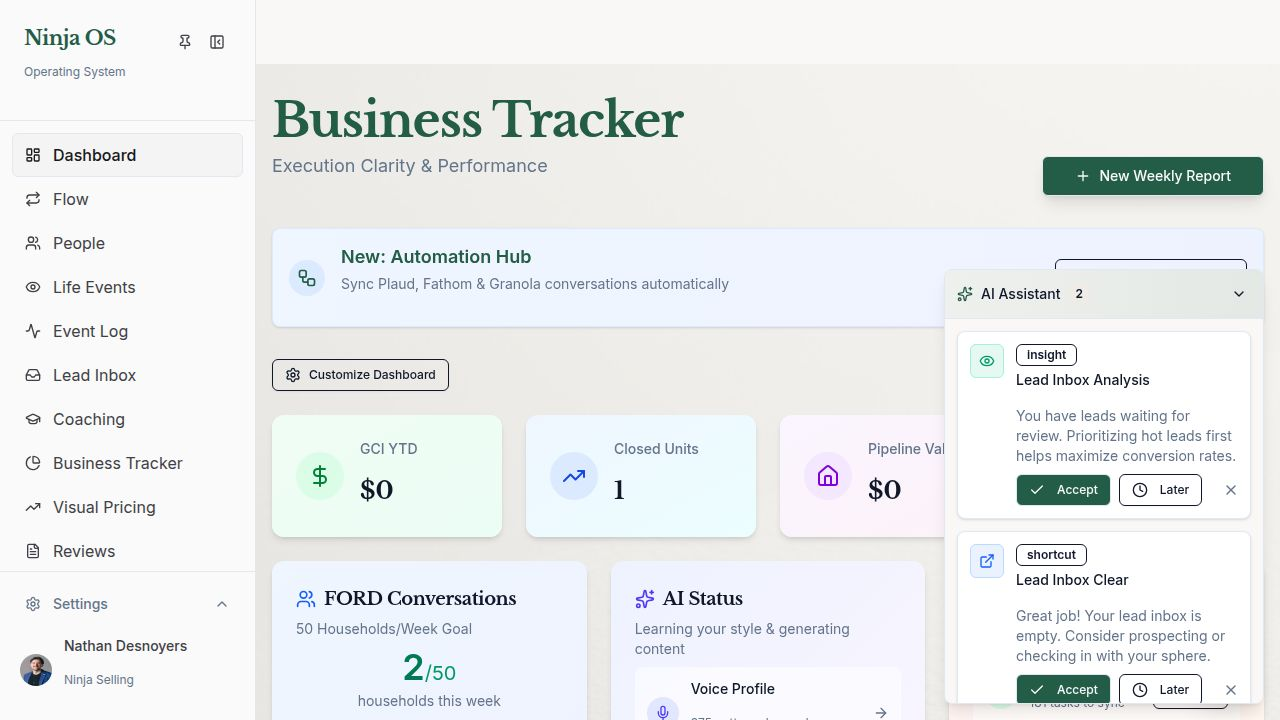
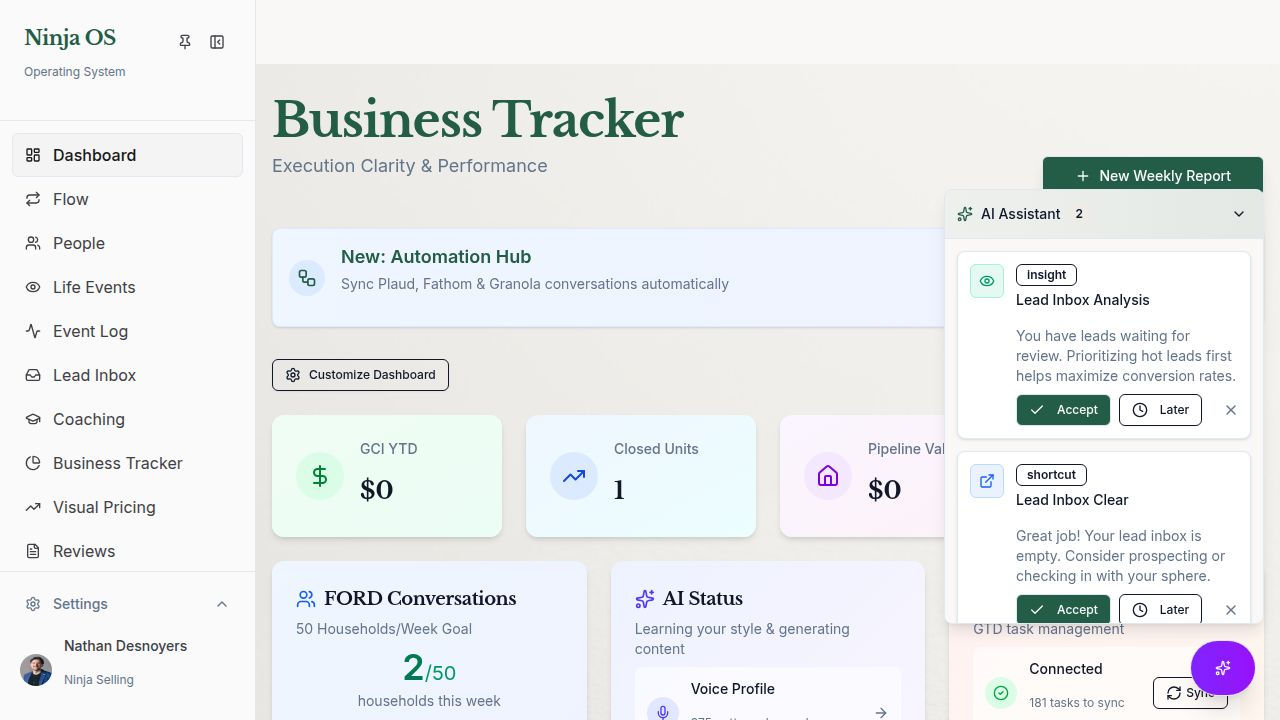
Hide AI suggestions overlay on smaller screens
Hide the AI suggestions overlay on mobile devices by applying `hidden md:block` CSS class to the overlay's container div in `observer-overlay.tsx`.

Replit-Commit-Author: Agent
Replit-Commit-Session-Id: 6c31a2a0-6acf-4edd-a9ca-cdbbe3dfd059
Replit-Commit-Checkpoint-Type: full_checkpoint
Replit-Commit-Event-Id: 3bc41913-e7a1-4a0f-b6f2-9e7602f058ce
Replit-Commit-Screenshot-Url: https://storage.googleapis.com/screenshot-production-us-central1/82773350-4ad4-4f8e-af08-bbdce2161ee4/6c31a2a0-6acf-4edd-a9ca-cdbbe3dfd059/R4xVSid
Replit-Helium-Checkpoint-Created: true

diff --git a/client/src/components/observer-overlay.tsx b/client/src/components/observer-overlay.tsx
@@ -216,7 +216,7 @@ export function ObserverOverlay() {
   }
 
   return (
-    <div className="fixed bottom-24 right-4 z-40 w-80" data-testid="observer-overlay">
+    <div className="hidden md:block fixed bottom-24 right-4 z-40 w-80" data-testid="observer-overlay">
       <div className={cn(
         "rounded-lg border bg-background shadow-lg overflow-hidden transition-all",
         !isOpen && "cursor-pointer hover:shadow-xl"
